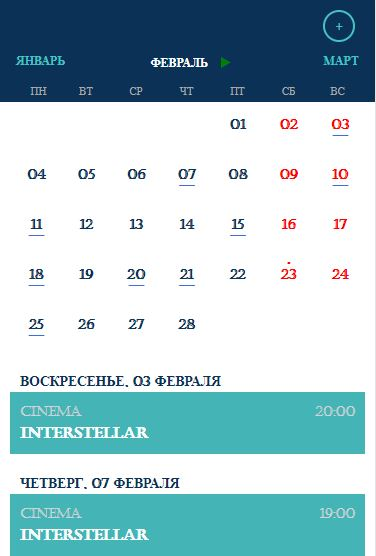
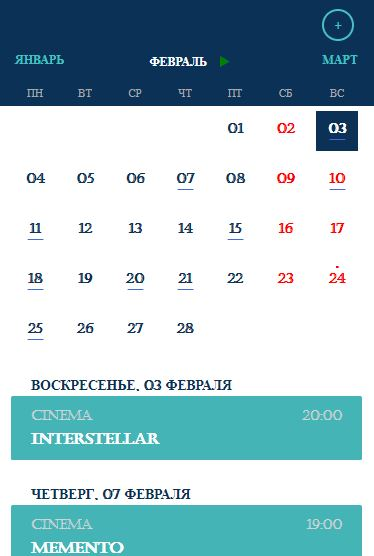
Version 2.6 - visual changes

diff --git a/src/App.js b/src/App.js
@@ -8,18 +8,18 @@ class App extends Component {
     constructor() {
         super();
         this.dataCalendar = [
-            {date: "20.02.2019", events:[{name:"Football", body:"Game Germany - Italy", time: "20:00"}, {name:"Football", body:"Game R - G", time: "20:00"}]},
+            {date: "20.02.2019", events:[{name:"Football", body:"Game Germany - Italy", time: "20:00"}, {name:"Football", body:"Game Spain - England", time: "20:00"}]},
             {date: "03.02.2019", events:[{name:"Cinema", body:"Interstellar", time: "20:00"}]},
-            {date: "07.02.2019", events:[{name:"Cinema", body:"Interstellar", time: "19:00"}]},
-            {date: "10.02.2019", events:[{name:"Cinema", body:"Interstellar", time: "21:00"}]},
-            {date: "11.02.2019", events:[{name:"Cinema", body:"Interstellar", time: "20:00"}]},
-            {date: "21.02.2019", events:[{name:"Football", body:"Game Italy - Germany", time: "20:00"}, {name:"Football", body:"Game G - R", time: "21:00"}]},
+            {date: "07.02.2019", events:[{name:"Cinema", body:"Memento", time: "19:00"}]},
+            {date: "10.02.2019", events:[{name:"Cinema", body:"Insomnia", time: "21:00"}]},
+            {date: "11.02.2019", events:[{name:"Cinema", body:"Batman Begins", time: "20:00"}]},
+            {date: "21.02.2019", events:[{name:"Football", body:"Game Italy - Germany", time: "20:00"}, {name:"Football", body:"Game England - Spain", time: "21:00"}]},
             {date: "15.02.2019", events:[{name:"Cinema", body:"Bad boys", time: "19:00"}]},
             {date: "18.02.2019", events:[{name:"Cinema", body:"Aladdin disney", time: "19:00"}]},
-            {date: "25.02.2019", events:[{name:"Cinema", body:"Aladdin disney", time: "21:00"}]},
-            {date: "07.03.2019", events:[{name:"Cinema", body:"Interstellar", time: "19:00"}]},
-            {date: "10.03.2019", events:[{name:"Cinema", body:"Interstellar", time: "21:00"}]},
-            {date: "18.03.2019", events:[{name:"Cinema", body:"Aladdin disney", time: "19:00"}]},
+            {date: "25.02.2019", events:[{name:"Cinema", body:"The Prestige", time: "21:00"}]},
+            {date: "07.03.2019", events:[{name:"Cinema", body:"The Dark Knight", time: "19:00"}]},
+            {date: "10.03.2019", events:[{name:"Cinema", body:"Inception", time: "21:00"}]},
+            {date: "18.03.2019", events:[{name:"Cinema", body:"Dunkirk", time: "19:00"}]},
         ]
         this.state = {value: "", name:"", body:"", time:"" };
         this.handleChange = this.handleChange.bind(this);
@@ -85,25 +85,34 @@ class App extends Component {
         document.getElementById("name-3").style.backgroundColor = "#E8E9EB"
         document.getElementById("name-4").style.backgroundColor = "#E8E9EB"
         document.getElementById("name-5").style.backgroundColor = "#E8E9EB"
+        document.getElementById("name-1").style.opacity = 0.5;
+        document.getElementById("name-3").style.opacity = 0.5;
+        document.getElementById("name-4").style.opacity = 0.5;
+        document.getElementById("name-5").style.opacity = 0.5;
+
     }
 
     selectBlock(){
         this.noSelectBlock()
         document.getElementById("name-1").style.backgroundColor = "white"
+        document.getElementById("name-1").style.opacity = 1
 
     }
     selectBlock2(){
         this.noSelectBlock()
         document.getElementById("name-3").style.backgroundColor = "white"
+        document.getElementById("name-3").style.opacity = 1;
 
     }
     selectBlock3(){
         this.noSelectBlock()
         document.getElementById("name-4").style.backgroundColor = "white"
+        document.getElementById("name-4").style.opacity = 1;
     }
     selectBlock4(){
         this.noSelectBlock()
         document.getElementById("name-5").style.backgroundColor = "white"
+        document.getElementById("name-5").style.opacity = 1;
     }
 
     layerEvents () {
@@ -119,7 +128,7 @@ class App extends Component {
                     <tr onClick={this.selectBlock2} id = "name-3">
                         <td>Дата события: </td>
                         <td  colspan = "2"><input id="idDate" className="inputText" type="text" value={this.state.value} placeholder="DD.MM.YYYY" required pattern="[0-9]{2}.[0-9]{2}.[0-9]{4}" onChange={this.handleChange}  /></td></tr>
-                    <tr onClick={this.selectBlock3} id = "name-4"><td>Длительность события: </td>
+                    <tr onClick={this.selectBlock3} id = "name-4"><td>Время начала: </td>
                         <td  colspan = "2"><input id="idTime" className="inputText" type="time" value={this.state.time} placeholder="time event" onChange={this.handleTimeChange}  /></td> </tr>
                     <tr id = "name-5" onClick={this.selectBlock4}><td colspan="3">Детали: <p>
                         <input id="idBody" className="inputText" type="text" value={this.state.body} placeholder="description event" onChange={this.handleBodyChange}  /></p></td> </tr>

diff --git a/src/components/style/CCalendar.css b/src/components/style/CCalendar.css
@@ -1,6 +1,7 @@
 #layer1 {
     position:relative;
     min-width: 375px;
+    background-color: white;
 }
 
 a{
@@ -64,22 +65,19 @@ a{
 }
 
 .tableEvent{
-    padding-right: 25px;
+    padding-right: 12px;
     padding-left: 12px;
     border-color: white;
     min-width: 300px;
     max-width: 1000px;
     margin: auto;
-
-
+    display: grid;
 }
 
 .tableEvent td:nth-of-type(1){
     text-align: left;
     width: 100%;
     padding-left: 10px;
-
-
 }
 
 .tableEvent td:nth-of-type(2){
@@ -111,10 +109,14 @@ a{
     border-top: 10px solid transparent;
     border-left: 10px solid transparent;
     border-right: 10px solid transparent;
+    border-bottom: 2px solid transparent;
     background-clip: padding-box;
+    border-radius: 2px 2px 0px 0px;                    /* закругление строки */
+    -webkit-border-radius: 2px 2px 0px 0px;
+    -moz-border-radius: 10px;
+    -khtml-border-radius: 10px;
+    display: inline;
     border-color: #45B4B7;
-    border-left-color: white;
-    border-right-color: white;
     text-align: left;
     font-family: Montserrat;
     background-color: #45B4B7;
@@ -130,8 +132,17 @@ a{
     border-right: 10px solid transparent;
     border-bottom: 10px solid transparent;
     background-clip: padding-box;
-    border-right-color: white;
-    border-left-color: white;
+    margin-bottom: 5px;
+
+    border-radius: 0px 0px 2px 2px;                    /* закругление строки */
+    -webkit-border-radius: 0px 0px 2px 2px;
+    -moz-border-radius: 10px;
+    -khtml-border-radius: 10px;
+    display: inline;
+
+    border-right-color: #45B4B7;
+    border-left-color: #45B4B7;
+
     border-bottom-color: #45B4B7;
     text-align: left;
     font-family: Montserrat;
@@ -180,7 +191,7 @@ a{
     height: 20px;
     width: 40px;
     opacity: 50%;
-    border: 50px;
+    border: 5px solid transparent;
     text-transform: uppercase;
     color: darkgray;
     background-color: #0B3157;
@@ -194,6 +205,7 @@ a{
     min-width: 375px;
     margin: auto;
     text-align: center;
+
 }
 
 
@@ -221,7 +233,7 @@ a{
     color:  red;
     height: 40px;
     width: 40px;
-    border-right: 14px solid transparent;
+    border-right: 16px solid transparent;
     background-clip: border-box;
     border-collapse: separate;
     border-color: white;
@@ -235,7 +247,7 @@ a{
 
 
 .tableCalendar th:nth-of-type(7) {
-    border-right: 14px solid transparent;
+    border-right: 16px solid transparent;
     background-clip: padding-box;
     border-color: #0B3157;
     border-collapse: separate;

diff --git a/src/components/style/App.css b/src/components/style/App.css
@@ -52,7 +52,7 @@
 
 #layerEvents{
   display: none;
-  background-color: darkgray;
+
 
 
 }
@@ -63,10 +63,14 @@
   background-color: #E8E9EB;
   margin: auto;
   font-family: Montserrat;
+  color: #0B3157;
 }
 
 #layerEvents td{
+  font-family: Montserrat;
   width: 50px;
+
+
 }
 #layerEvents th:nth-of-type(1){
   background-color: #0B3157;
@@ -95,6 +99,7 @@
   padding-top: 5px;
   padding-bottom: 5px;
 
+  border-bottom: 2px solid;
   border-top: 2px solid transparent;
   border-color: darkgray;
 
@@ -104,14 +109,15 @@
 #layerEvents td:nth-of-type(2) {
   text-align: right;
   padding-right: 10px;
-  padding-top: 5px;
-  padding-bottom: 5px;
+  padding-top: 10px;
+  padding-bottom: 10px;
   border-top: 2px solid transparent;
   border-color: darkgray;
 }
 
 
-#layerEvents tr:nth-child(2) {
+#layerEvents tr:not(:first-child)  {
+  opacity: 0.5;
 }
 
 .inputText{

diff --git a/src/index.css b/src/index.css
@@ -6,6 +6,7 @@ body {
     sans-serif;
   -webkit-font-smoothing: antialiased;
   -moz-osx-font-smoothing: grayscale;
+  background-color: #E8E9EB;
 }
 
 code {
